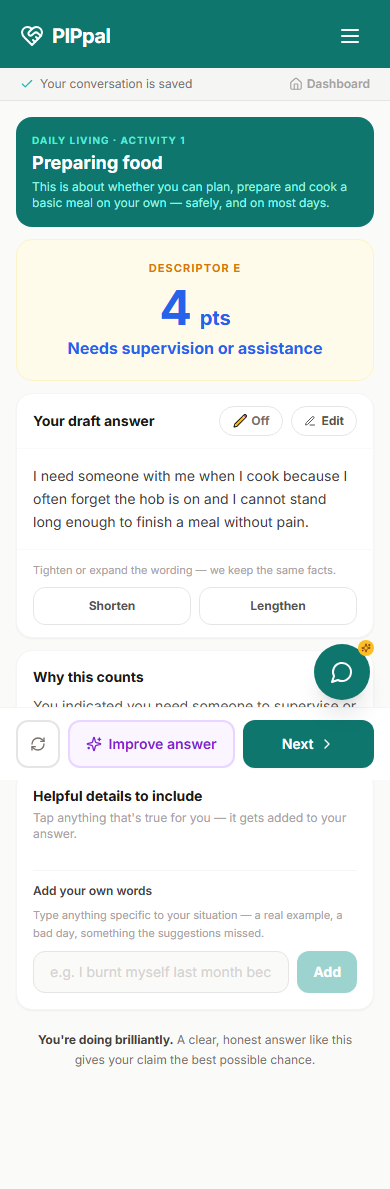
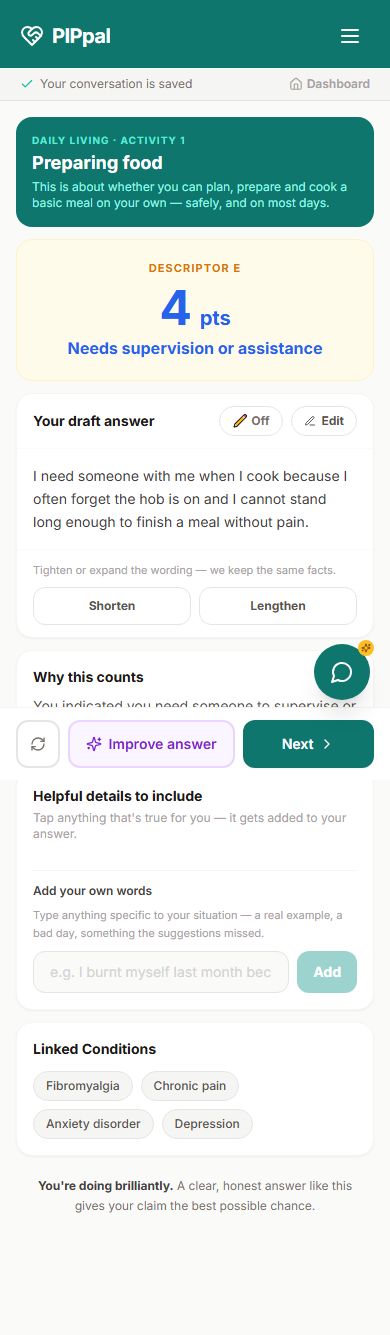
Marketing screenshots: CoC sizing, PIP Diary, Medical Profile carousel
Seed dev URLs for playable captures (?screenshot=...), widen CoC carousel image,
fix QuestionFlow hook order for coc_compare capture, extend Playwright script.

Changed region(s): [[0.0, 0.0, 1.0, 0.9336]]

diff --git a/src/components/AppContext.tsx b/src/components/AppContext.tsx
@@ -55,7 +55,20 @@ export type Screen =
   | 'survey';
 
 /** Dev-only: `/?screenshot=…` for marketing captures (see `scripts/capture-marketing-screens.mjs`). */
-type DevScreenshot = { screen: Screen; seedReviewAnswers: boolean; seedDraftAnswer: boolean };
+type DevScreenshot = {
+  screen: Screen;
+  seedReviewAnswers: boolean;
+  seedDraftAnswer: boolean;
+  /** QuestionFlow CoC compare (PIP2 + PA4 + example) — `q1_intro` */
+  seedCocQuestionFlow?: boolean;
+  /** Rich sample profile for marketing capture (`medical_profile` screen) */
+  seedMedicalProfileMarketing?: boolean;
+};
+
+const COC_MARKET_FLOW_Q1_PREV =
+  'I can prepare a simple meal but I need to sit down regularly due to pain. I use the microwave most days as standing at the hob is too difficult. My partner helps with anything involving heavy pans or the oven.';
+const COC_MARKET_FLOW_Q1_PA4 =
+  'Claimant states they use a microwave only and cannot use the hob due to pain and fatigue. A perching stool is used at the kitchen counter. Partner reported to assist with preparing hot food daily. Observed reduced grip strength on examination. Recommended descriptor: E (supervision required). 4 points.';
 
 function readDevScreenshot(): DevScreenshot | null {
   if (!import.meta.env.DEV) return null;
@@ -66,6 +79,21 @@ function readDevScreenshot(): DevScreenshot | null {
     return { screen: 'q1_result', seedReviewAnswers: false, seedDraftAnswer: true };
   if (v === 'coc_step3')
     return { screen: 'change_of_circumstances', seedReviewAnswers: false, seedDraftAnswer: false };
+  if (v === 'coc_compare')
+    return {
+      screen: 'q1_intro',
+      seedReviewAnswers: false,
+      seedDraftAnswer: false,
+      seedCocQuestionFlow: true,
+    };
+  if (v === 'pip_diary') return { screen: 'pip_diary', seedReviewAnswers: false, seedDraftAnswer: false };
+  if (v === 'medical_profile')
+    return {
+      screen: 'medical_profile',
+      seedReviewAnswers: false,
+      seedDraftAnswer: false,
+      seedMedicalProfileMarketing: true,
+    };
   return null;
 }
 
@@ -102,6 +130,18 @@ export interface MedProfile {
   medications: string;
   notes: string;
 }
+
+/** Dev-only: `/?screenshot=medical_profile` — aligns with presets in MedicalProfile.tsx */
+const MED_PROFILE_MARKETING: MedProfile = {
+  conditions: [
+    { name: 'Fibromyalgia', durationNum: '6', durationUnit: 'years' },
+    { name: 'Chronic pain', durationNum: '6', durationUnit: 'years' },
+    { name: 'Anxiety disorder', durationNum: '4', durationUnit: 'years' },
+    { name: 'Depression', durationNum: '4', durationUnit: 'years' },
+  ],
+  medications: 'Amitriptyline 10mg at night, Sertraline 50mg daily, Ibuprofen 400mg when needed',
+  notes: 'Flare-ups are worse in cold, damp weather. I need a rest day after physio or long outings.',
+};
 
 export interface Toast {
   id: string;
@@ -230,7 +270,7 @@ export function parseBlogPath(): BlogPathParse {
 
 export function AppProvider({ children }: { children: ReactNode }) {
 
-  const [{ devScreenshot, demoAnswers, draftAnswerSeed }] = useState(() => {
+  const [{ devScreenshot, demoAnswers, draftAnswerSeed, cocFlowMarketing }] = useState(() => {
     const shot = readDevScreenshot();
     const draft =
       shot?.seedDraftAnswer
@@ -242,10 +282,20 @@ export function AppProvider({ children }: { children: ReactNode }) {
               'I need someone with me when I cook because I often forget the hob is on and I cannot stand long enough to finish a meal without pain.',
           }
         : null;
+
+    const cocFlowMarketing =
+      shot?.seedCocQuestionFlow === true
+        ? {
+            cocPreviousAnswers: { q1: COC_MARKET_FLOW_Q1_PREV },
+            cocAssessorNotes: { q1: COC_MARKET_FLOW_Q1_PA4 },
+          }
+        : null;
+
     return {
       devScreenshot: shot,
       demoAnswers: shot?.seedReviewAnswers ? buildDevScreenshotAnswerPacks() : null,
       draftAnswerSeed: draft,
+      cocFlowMarketing,
     };
   });
 
@@ -292,13 +342,14 @@ export function AppProvider({ children }: { children: ReactNode }) {
 
   const [hasPaid, setHasPaidState] = useState<boolean>(() => (devScreenshot ? true : loadFromStorage('pippal_paid_cache', false)));
 
-  const [medProfile, setMedProfileState] = useState<MedProfile>(() =>
-    loadFromStorage('pippal_med_profile', {
+  const [medProfile, setMedProfileState] = useState<MedProfile>(() => {
+    if (devScreenshot?.seedMedicalProfileMarketing) return { ...MED_PROFILE_MARKETING };
+    return loadFromStorage('pippal_med_profile', {
       conditions: [],
       medications: '',
       notes: '',
-    })
-  );
+    });
+  });
 
   const [badDayMode, setBadDayMode] = useState(false);
   const [descriptorHint, setDescriptorHint] = useState<string | null>(null);
@@ -353,11 +404,19 @@ export function AppProvider({ children }: { children: ReactNode }) {
   const savedAnswerDetailsRef = useRef(savedAnswerDetails);
   savedAnswerDetailsRef.current = savedAnswerDetails;
 
-  const [cocPreviousAnswers, setCocPreviousAnswers] = useState<Record<string, string>>({});
-  const [cocMode, setCocMode] = useState(false);
-  const [cocFormType, setCocFormType] = useState<'pip2' | 'ar1' | null>(null);
-  const [cocDocumentType, setCocDocumentType] = useState<'pip2_only' | 'pa4_only' | 'both' | 'award_only' | null>(null);
-  const [cocAssessorNotes, setCocAssessorNotes] = useState<Record<string, string>>({});
+  const [cocPreviousAnswers, setCocPreviousAnswers] = useState<Record<string, string>>(() =>
+    cocFlowMarketing ? { ...cocFlowMarketing.cocPreviousAnswers } : {},
+  );
+  const [cocMode, setCocMode] = useState(() => cocFlowMarketing !== null);
+  const [cocFormType, setCocFormType] = useState<'pip2' | 'ar1' | null>(() =>
+    cocFlowMarketing ? 'pip2' : null,
+  );
+  const [cocDocumentType, setCocDocumentType] = useState<
+    'pip2_only' | 'pa4_only' | 'both' | 'award_only' | null
+  >(() => (cocFlowMarketing ? 'both' : null));
+  const [cocAssessorNotes, setCocAssessorNotes] = useState<Record<string, string>>(() =>
+    cocFlowMarketing ? { ...cocFlowMarketing.cocAssessorNotes } : {},
+  );
   const [cocPreviousPoints, setCocPreviousPoints] = useState<Record<string, number | null>>({});
   const [cocWalkthroughAnsweredIds, setCocWalkthroughAnsweredIds] = useState<Record<string, boolean>>({});
 

diff --git a/src/components/ChatPreview.tsx b/src/components/ChatPreview.tsx
@@ -13,21 +13,43 @@ const SLIDES = [
     src: '/marketing/home-screen.png',
     headerLabel: 'Home',
     caption: 'Home',
+    imageFit: 'cover' as const,
+    panScreenshot: true,
+  },
+  {
+    src: '/marketing/medical-profile-screen.png',
+    headerLabel: 'Medical Profile',
+    caption: 'Conditions, meds & notes',
+    imageFit: 'cover' as const,
+    panScreenshot: true,
   },
   {
     src: '/marketing/answers-prep-screen.png',
     headerLabel: 'Your answers',
     caption: 'Your answers prep',
+    imageFit: 'cover' as const,
+    panScreenshot: true,
   },
   {
     src: '/marketing/draft-answer-screen.png',
     headerLabel: 'Draft answer',
     caption: 'Draft answer',
+    imageFit: 'cover' as const,
+    panScreenshot: true,
+  },
+  {
+    src: '/marketing/pip-diary-screen.png',
+    headerLabel: 'PIP Diary',
+    caption: 'Weekly diary evidence',
+    imageFit: 'cover' as const,
+    panScreenshot: true,
   },
   {
     src: '/marketing/coc-pip2-pa4-screen.png',
     headerLabel: 'CoC walkthrough',
     caption: 'Your answer, PA4 assessor notes & example',
+    imageFit: 'contain' as const,
+    panScreenshot: false,
   },
 ] as const;
 
@@ -45,6 +67,13 @@ export function ChatPreview({ onStart, embedded }: ChatPreviewProps) {
   }, [reduceMotion, manualNav]);
 
   const slide = SLIDES[index];
+
+  const imageClassName =
+    slide.imageFit === 'contain'
+      ? 'w-full h-full max-h-full object-contain object-top select-none pointer-events-none block'
+      : 'w-full min-h-[112%] object-cover object-top select-none pointer-events-none block';
+
+  const slidePanMotion = slide.panScreenshot && !reduceMotion;
 
   const go = (direction: -1 | 1) => {
     setManualNav(true);
@@ -96,35 +125,33 @@ export function ChatPreview({ onStart, embedded }: ChatPreviewProps) {
                   <AnimatePresence mode="wait" initial={false}>
                     <motion.div
                       key={slide.src}
-                      className="absolute inset-0"
+                      className="absolute inset-0 flex items-start justify-center"
                       initial={{ opacity: 0, x: reduceMotion ? 0 : 28 }}
                       animate={{ opacity: 1, x: 0 }}
                       exit={{ opacity: 0, x: reduceMotion ? 0 : -28 }}
                       transition={{ duration: 0.38, ease: [0.22, 1, 0.36, 1] }}
                     >
-                      {reduceMotion ? (
-                        <img
-                          src={slide.src}
-                          alt={slide.caption}
-                          className="w-full min-h-[112%] object-cover object-top select-none pointer-events-none block"
-                          loading={index === 0 ? 'eager' : 'lazy'}
-                          decoding="async"
-                        />
-                      ) : (
+                      {slidePanMotion ? (
                         <motion.img
                           src={slide.src}
                           alt={slide.caption}
-                          className="w-full min-h-[112%] object-cover object-top select-none pointer-events-none block"
+                          className={imageClassName}
                           loading={index === 0 ? 'eager' : 'lazy'}
                           decoding="async"
-                          animate={{
-                            y: [0, -36, 0],
-                          }}
+                          animate={{ y: [0, -36, 0] }}
                           transition={{
                             duration: 14,
                             repeat: Infinity,
                             ease: 'easeInOut',
                           }}
+                        />
+                      ) : (
+                        <img
+                          src={slide.src}
+                          alt={slide.caption}
+                          className={imageClassName}
+                          loading={index === 0 ? 'eager' : 'lazy'}
+                          decoding="async"
                         />
                       )}
                     </motion.div>

diff --git a/src/components/PIPDiaryScreen.tsx b/src/components/PIPDiaryScreen.tsx
@@ -52,6 +52,46 @@ const emptyWeek = (): WeekEntry => ({
   notes: {},
 });
 
+const PIP_DIARY_MARKETING_WEEK_ID = 'pip-diary-market-week';
+
+/** Dev-only: sample week for marketing capture (`/?screenshot=pip_diary`). */
+function readPipDiaryMarketingSeed(): WeekEntry | null {
+  if (!import.meta.env.DEV) return null;
+  try {
+    if (new URLSearchParams(window.location.search).get('screenshot') !== 'pip_diary') return null;
+  } catch {
+    return null;
+  }
+  return {
+    id: PIP_DIARY_MARKETING_WEEK_ID,
+    weekStart: getMonday(),
+    notes: {
+      Monday: {
+        food:
+          'Bad day: only managed a few minutes at the hob before pain forced me to sit. Partner finished the meal — microwave soup later.',
+        eating:
+          'Tremor with a full mug; breakfast took well over 45 minutes with lots of breaks.',
+        washing: 'Used the shower stool; felt dizzy stepping out — had to lie down twenty minutes before I could dress.',
+      },
+      Tuesday: {
+        food: 'No energy to cook — cereal only. Partner made cups of tea all day.',
+      },
+    },
+  };
+}
+
+/** First render only — aligns weeks, current week selection, and an expanded activity for hero capture. */
+function initDiaryScreenshotState(): {
+  weeks: WeekEntry[];
+  currentWeekId: string;
+  expandedActivity: string | null;
+} {
+  const seed = readPipDiaryMarketingSeed();
+  if (!seed)
+    return { weeks: [emptyWeek()], currentWeekId: '', expandedActivity: null };
+  return { weeks: [seed], currentWeekId: seed.id, expandedActivity: 'food' };
+}
+
 const formatWeekLabel = (weekStart: string) => {
   const start = new Date(weekStart + 'T00:00:00');
   const end = new Date(start);
@@ -67,10 +107,11 @@ const getDayDate = (weekStart: string, dayIndex: number) => {
 
 export function PIPDiaryScreen({ hasPaid = false }: { hasPaid?: boolean }) {
   const { goBack, user, showToast, navigateTo, savedAnswers, medProfile } = useAppContext();
-  const [weeks, setWeeks] = useState<WeekEntry[]>([emptyWeek()]);
-  const [currentWeekId, setCurrentWeekId] = useState<string>('');
+  const [boot] = useState(() => initDiaryScreenshotState());
+  const [weeks, setWeeks] = useState<WeekEntry[]>(() => boot.weeks);
+  const [currentWeekId, setCurrentWeekId] = useState(() => boot.currentWeekId);
   const [currentDayIndex, setCurrentDayIndex] = useState(0);
-  const [expandedActivity, setExpandedActivity] = useState<string | null>(null);
+  const [expandedActivity, setExpandedActivity] = useState<string | null>(() => boot.expandedActivity);
   const [showDescPanel, setShowDescPanel] = useState<string | null>(null);
   const [isLoading, setIsLoading] = useState(false);
   const [isSaving, setIsSaving] = useState(false);
@@ -78,6 +119,7 @@ export function PIPDiaryScreen({ hasPaid = false }: { hasPaid?: boolean }) {
   const [showWeekPicker, setShowWeekPicker] = useState(false);
 
   useEffect(() => {
+    if (readPipDiaryMarketingSeed()) return;
     if (!user?.id) return;
     const load = async () => {
       setIsLoading(true);

diff --git a/src/components/QuestionFlow.tsx b/src/components/QuestionFlow.tsx
@@ -123,7 +123,16 @@ export function QuestionFlow() {
   // Expanded by default on mobile, collapsed on desktop
   const [showDescriptors, setShowDescriptors] = useState(false);
   const [showFullExample, setShowFullExample] = useState(true);
-  const [questionExplainedOpen, setQuestionExplainedOpen] = useState(true);
+  const [questionExplainedOpen, setQuestionExplainedOpen] = useState(() => {
+    try {
+      return !(
+        import.meta.env.DEV &&
+        new URLSearchParams(window.location.search).get('screenshot') === 'coc_compare'
+      );
+    } catch {
+      return true;
+    }
+  });
   const [loadingExample] = useState(false);
 
   // Read pre-generated content from sessionStorage (set by PersonalisingScreen)
@@ -195,7 +204,15 @@ Tone: warm, plain British English, encouraging. Under 80 words. Return ONLY the 
     additionalDetail: '',
   });
 
+  const [generating, setGenerating] = useState(false);
+
   useEffect(() => {
+    if (
+      import.meta.env.DEV &&
+      new URLSearchParams(window.location.search).get('screenshot') === 'coc_compare'
+    ) {
+      return;
+    }
     setQuestionExplainedOpen(true);
   }, [questionId]);
 
@@ -221,8 +238,6 @@ Tone: warm, plain British English, encouraging. Under 80 words. Return ONLY the 
     if (step === 1) goBack();
     else goToStep((step - 1) as Step);
   }
-
-  const [generating, setGenerating] = useState(false);
 
   function handleContinue() {
     if (step === 5) {

diff --git a/src/components/MedicalProfile.tsx b/src/components/MedicalProfile.tsx
@@ -39,6 +39,9 @@ export function MedicalProfile() {
 
   // Load from Supabase on mount
   useEffect(() => {
+    if (import.meta.env.DEV && new URLSearchParams(window.location.search).get('screenshot') === 'medical_profile') {
+      return;
+    }
     if (!user?.id) return;
     const loadProfile = async () => {
       // Only show spinner if no conditions already loaded from cache